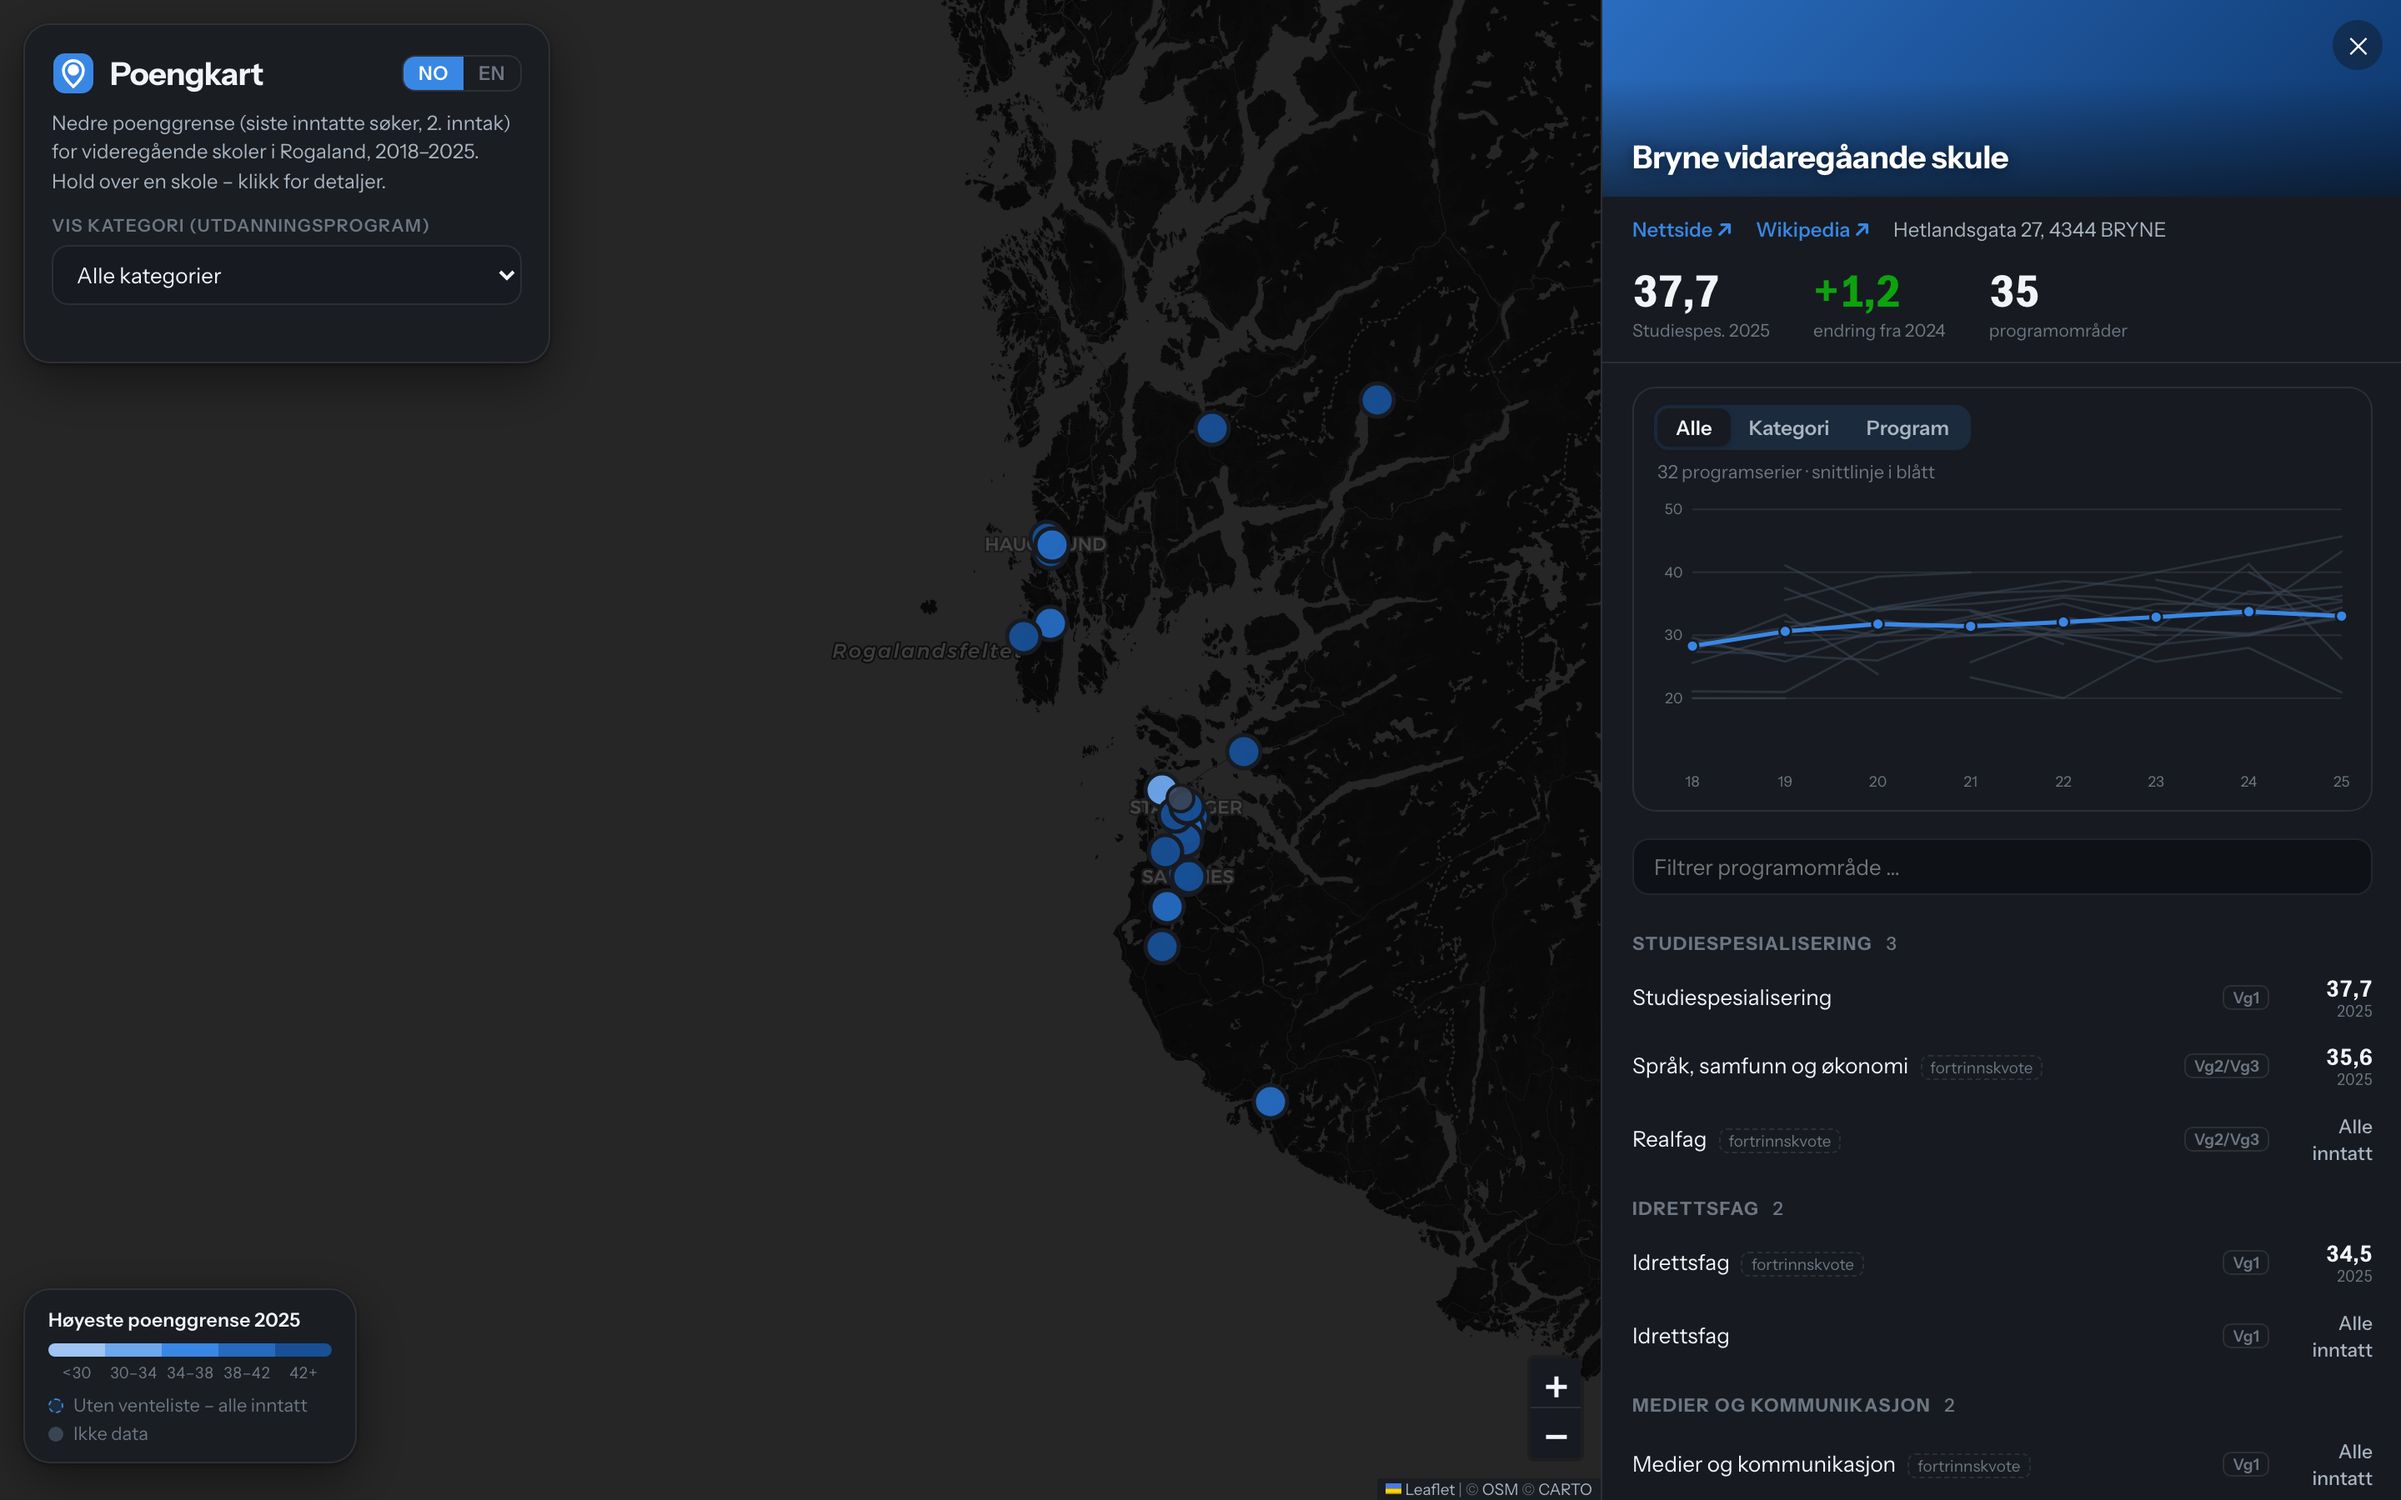
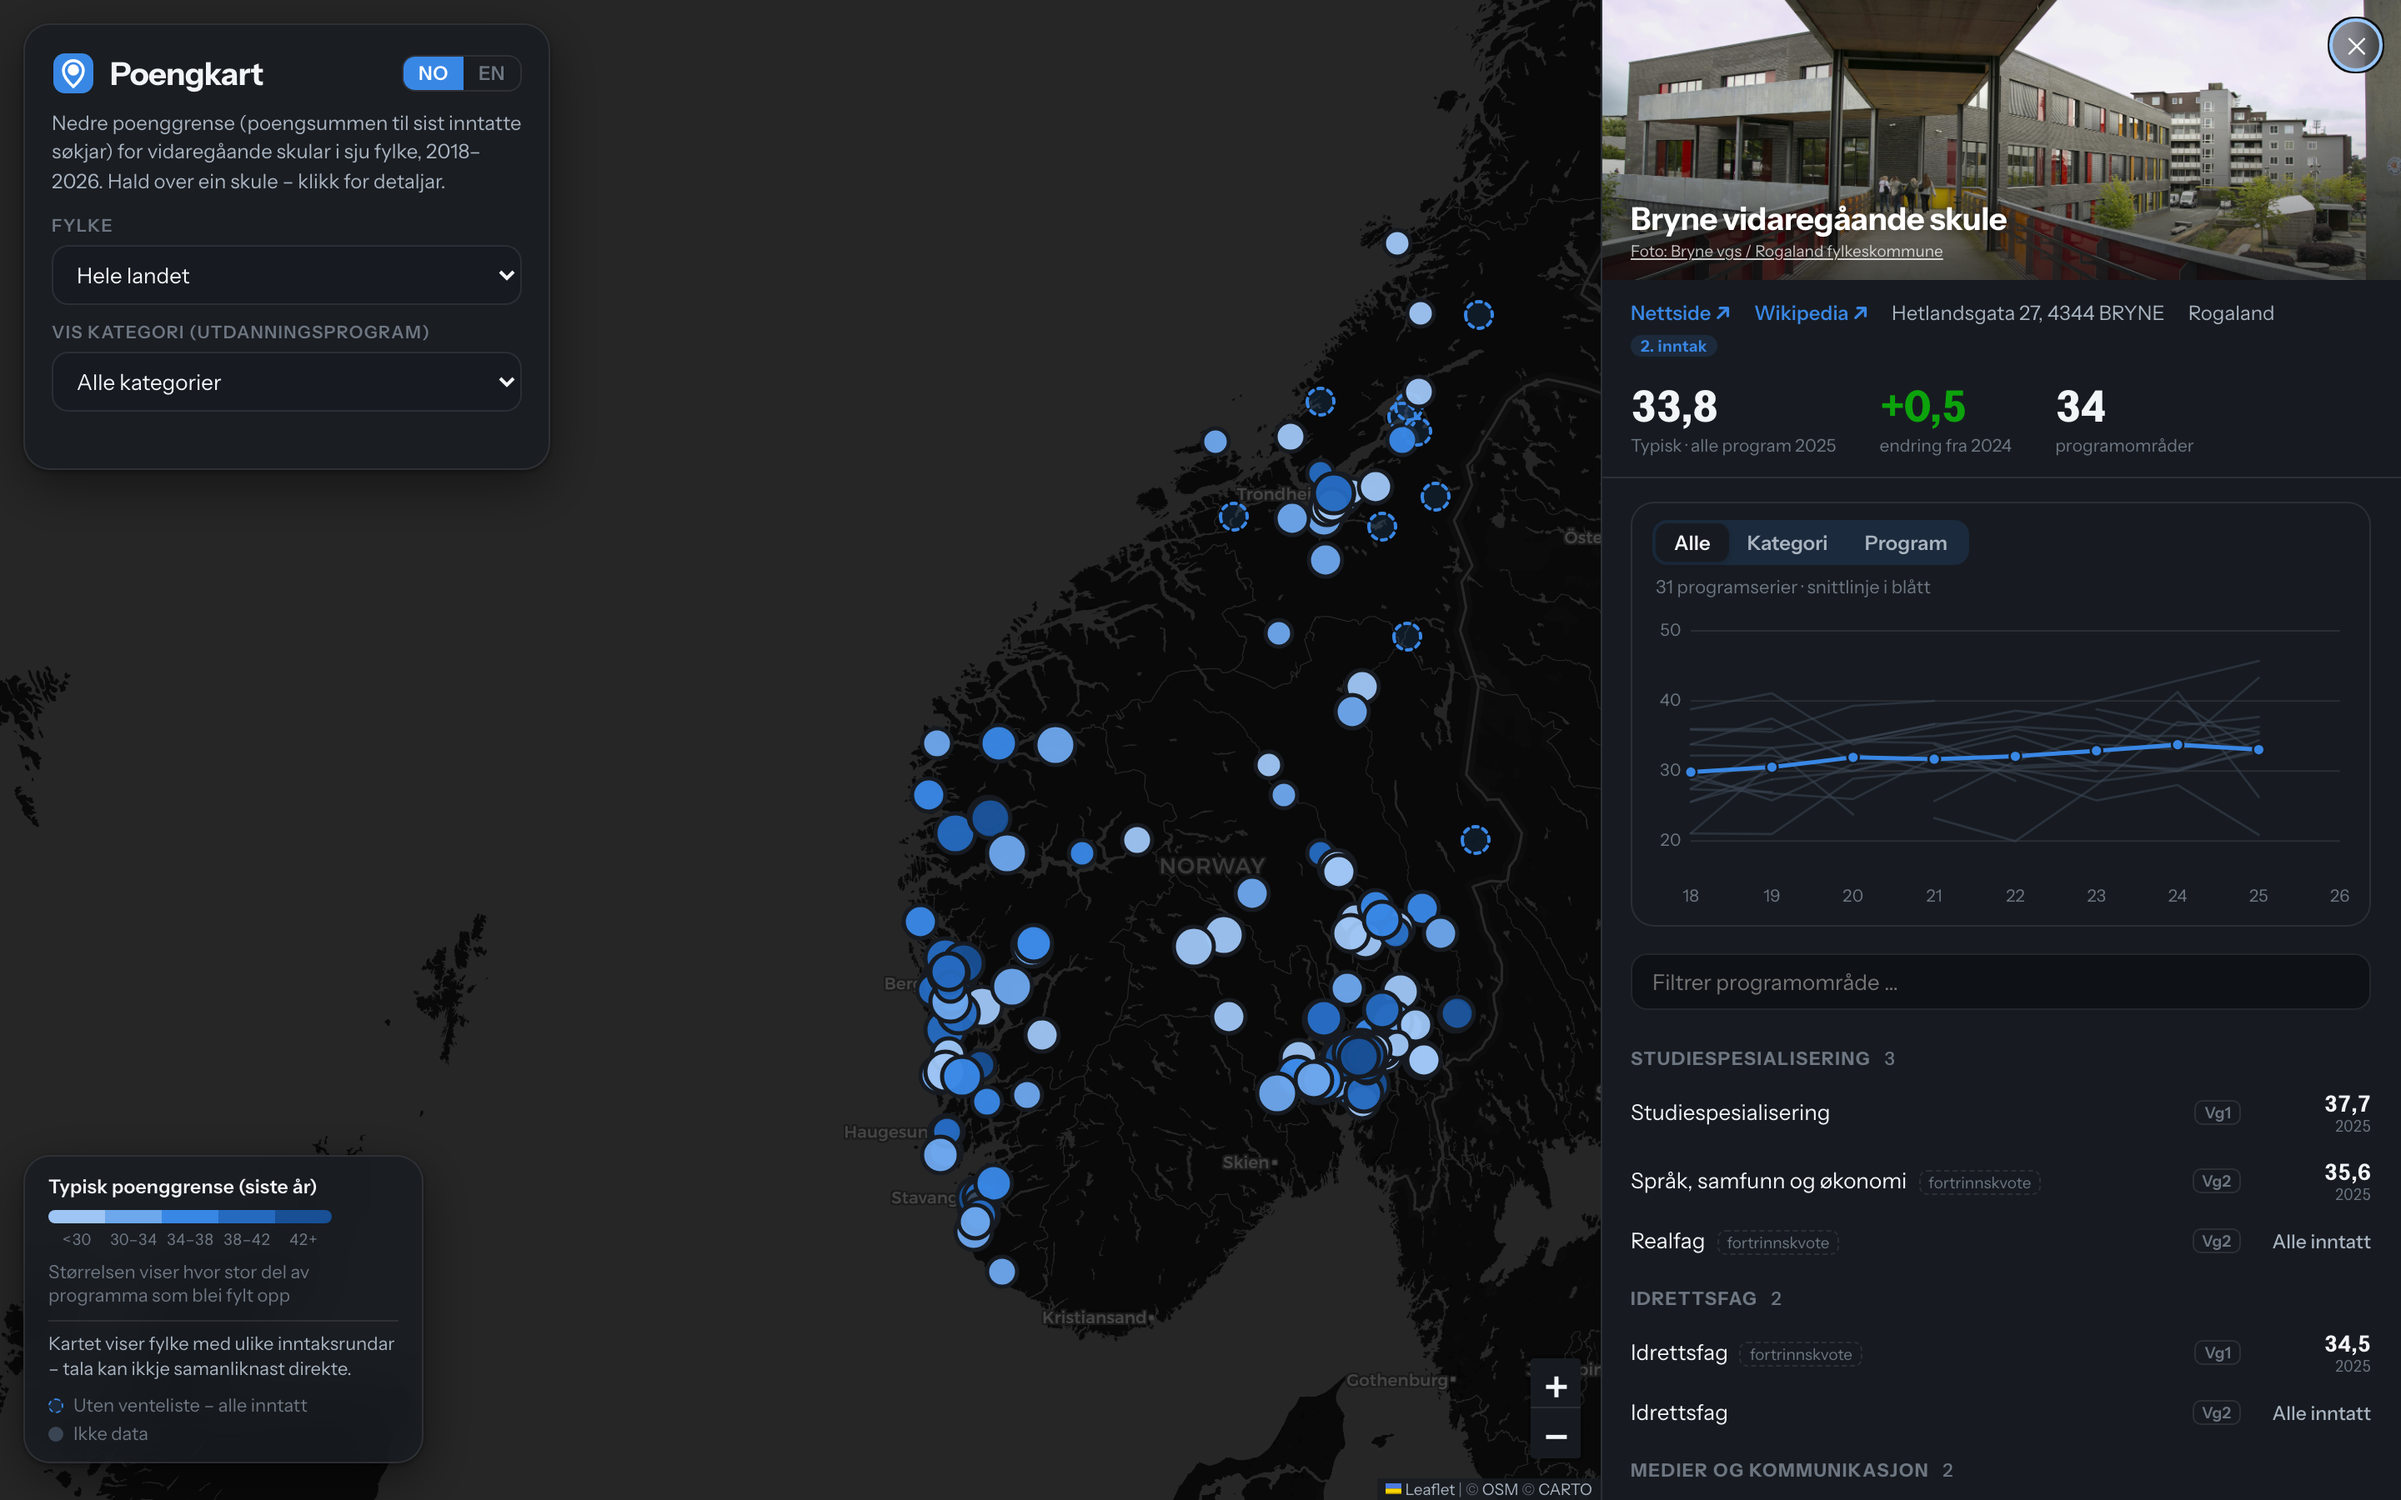
Refresh README screenshots for the national map

diff --git a/README.md b/README.md
@@ -14,9 +14,9 @@ nothing findable. Each county also publishes a *different intake round*, and
 thresholds fall between rounds, so the app labels every figure with its round
 and warns when a view mixes them.
 
-![Map of Rogaland with schools colored by admission pressure](docs/map.png)
+![Map of Norway with upper secondary schools coloured by admission pressure](docs/map.png)
 
-![School details: trends and per-program thresholds](docs/school.png)
+![School details: trends and per-programme thresholds](docs/school.png)
 
 ## Run locally
 
